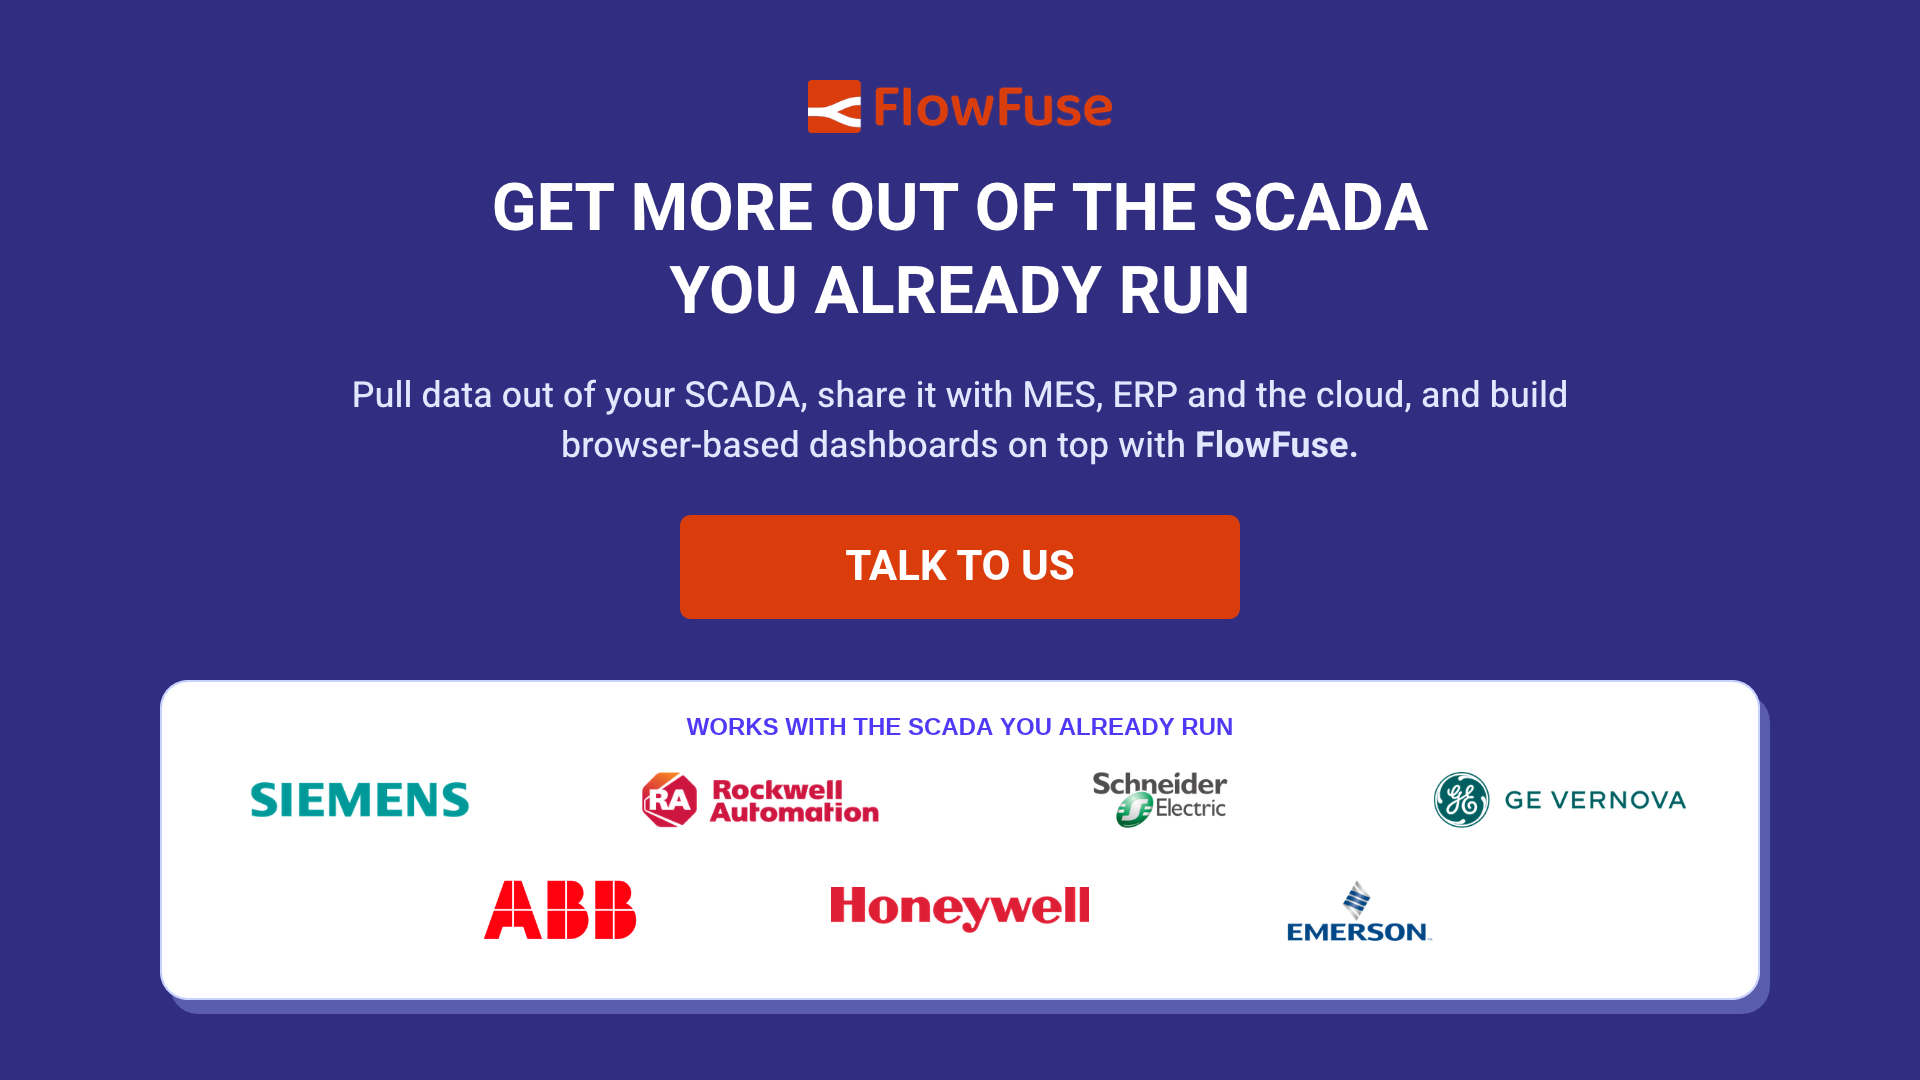
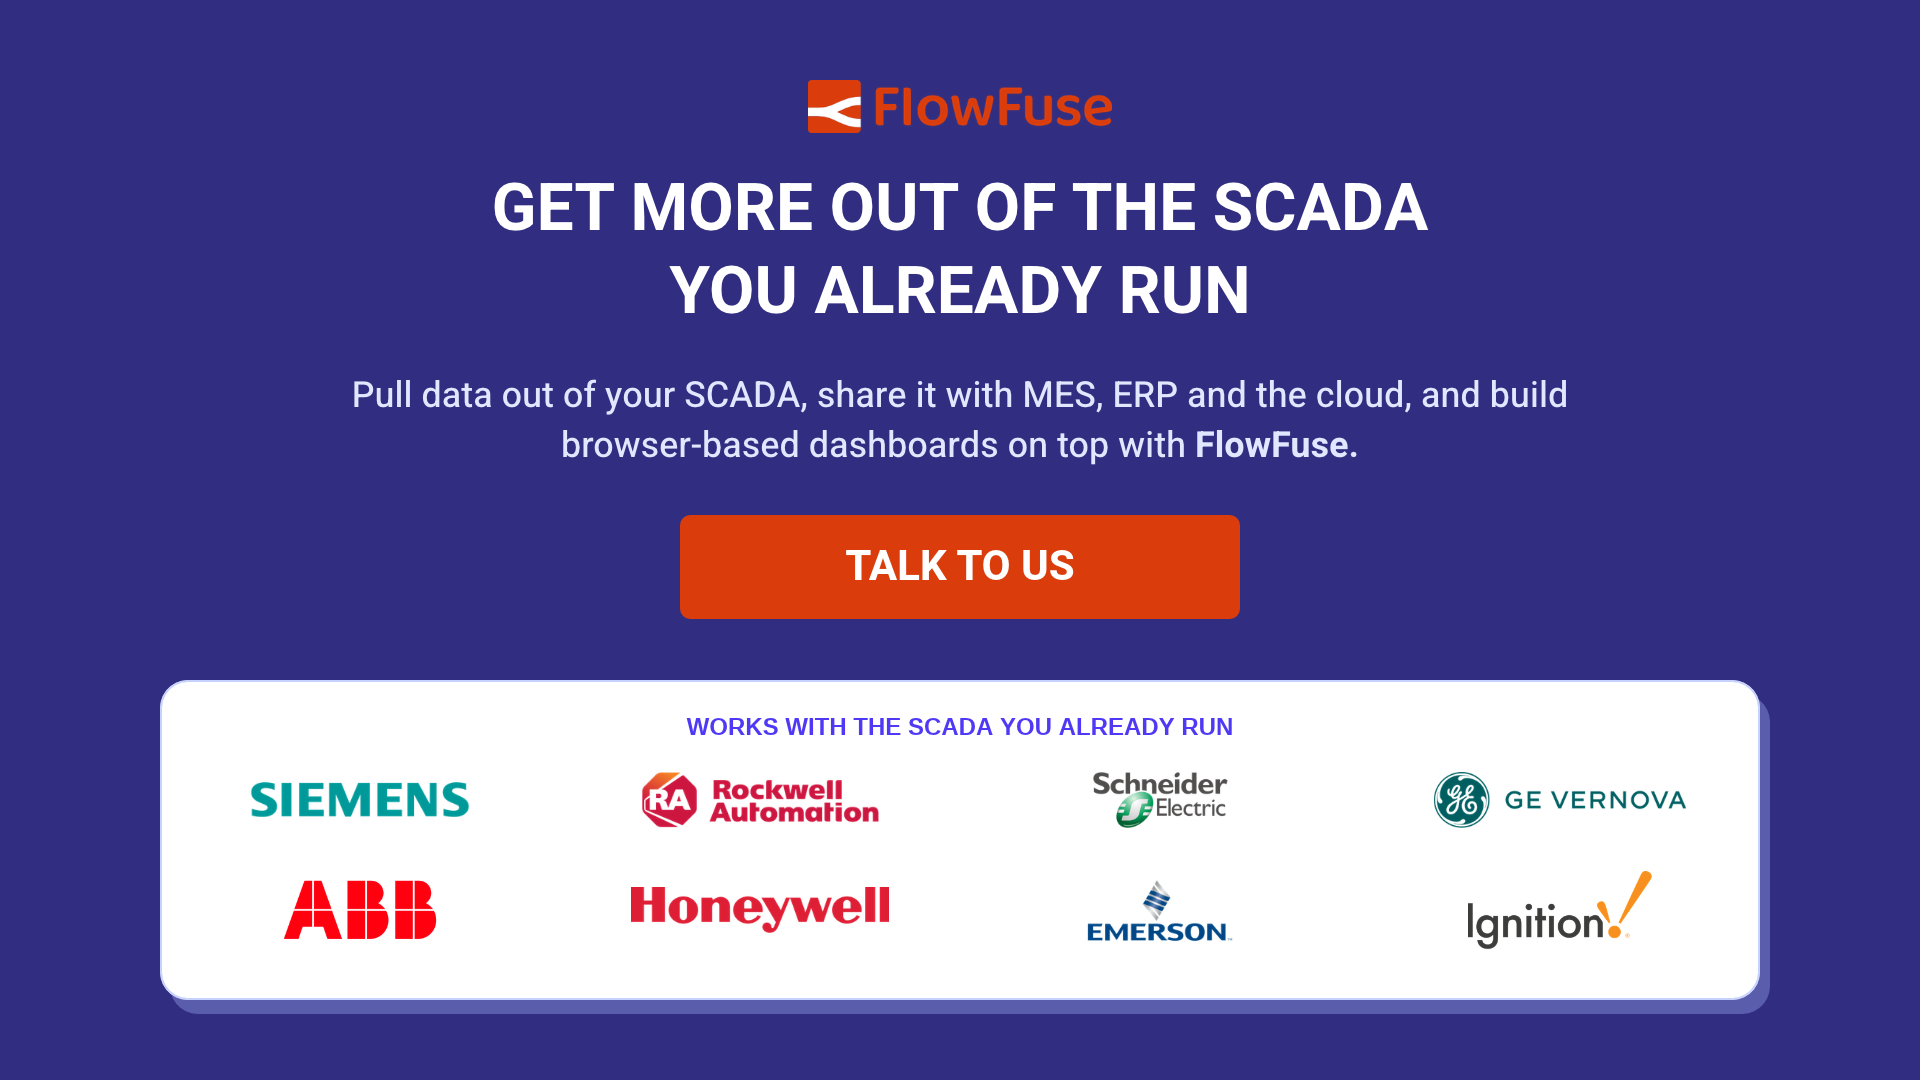
Add Ignition to the SCADA vendor CTA cards

Changed region(s): [[0.125, 0.7944, 0.875, 0.8861]]

diff --git a/nuxt/content/blog/2026/08/what-is-scada.md b/nuxt/content/blog/2026/08/what-is-scada.md
@@ -42,7 +42,7 @@ FlowFuse, an industrial application platform, works directly inside the environm
 
 This article breaks down what SCADA is, how it works, how it compares to related systems like PLCs and HMIs, and why it still matters in brownfield environments today.
 
-::cta-image{src="/blog/2026/08/images/scada-vendors-cta-dark.png" alt="Get more out of the SCADA you already run: pull data from Siemens, Rockwell Automation, Schneider Electric, GE Vernova, ABB, Honeywell or Emerson SCADA and share it with MES, ERP and the cloud using FlowFuse. Talk to us." cta="demo"}
+::cta-image{src="/blog/2026/08/images/scada-vendors-cta-dark.png" alt="Get more out of the SCADA you already run: pull data from Siemens, Rockwell Automation, Schneider Electric, GE Vernova, ABB, Honeywell, Emerson or Ignition SCADA and share it with MES, ERP and the cloud using FlowFuse. Talk to us." cta="demo"}
 ::
 
 ## How Does SCADA Work? The Core Components
@@ -95,7 +95,7 @@ _Extending a brownfield SCADA system with an IT/OT layer rather than replacing i
 
 Extending a brownfield SCADA system, rather than replacing it, lets manufacturers keep proven equipment logic in place while adding the [IT/OT connectivity](/use-cases/it-ot-middleware/) needed for enterprise-wide visibility. That approach protects existing investment and reduces the operational risk that comes with large-scale system replacement.
 
-::cta-image{src="/blog/2026/08/images/scada-vendors-cta-light.png" alt="Get more out of the SCADA you already run: pull data from Siemens, Rockwell Automation, Schneider Electric, GE Vernova, ABB, Honeywell or Emerson SCADA and share it with MES, ERP and the cloud using FlowFuse. Talk to us." cta="demo"}
+::cta-image{src="/blog/2026/08/images/scada-vendors-cta-light.png" alt="Get more out of the SCADA you already run: pull data from Siemens, Rockwell Automation, Schneider Electric, GE Vernova, ABB, Honeywell, Emerson or Ignition SCADA and share it with MES, ERP and the cloud using FlowFuse. Talk to us." cta="demo"}
 ::
 
 ## Final Thoughts
